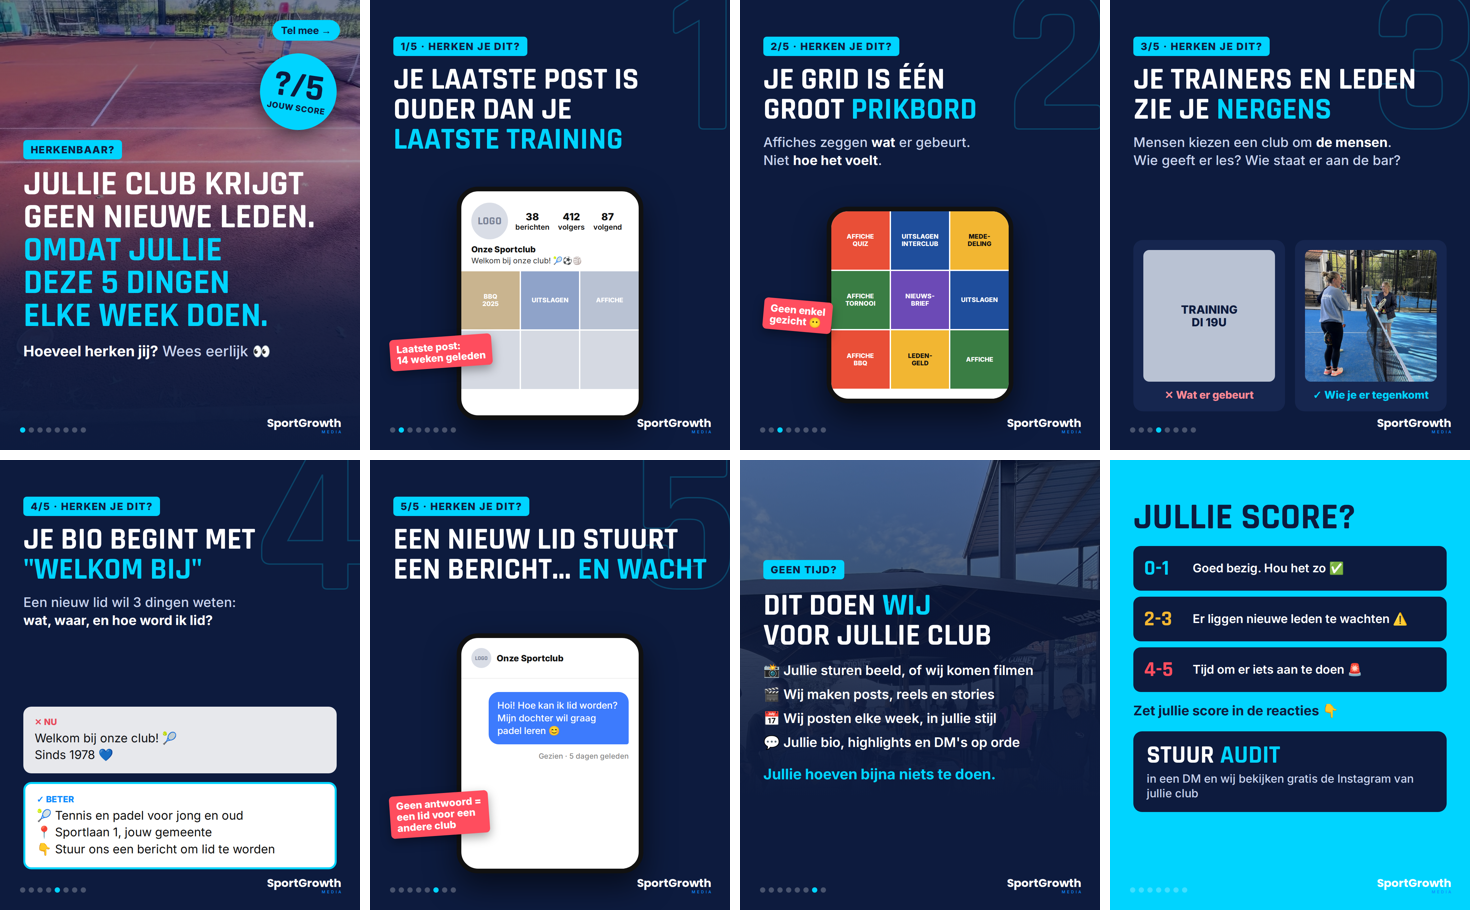
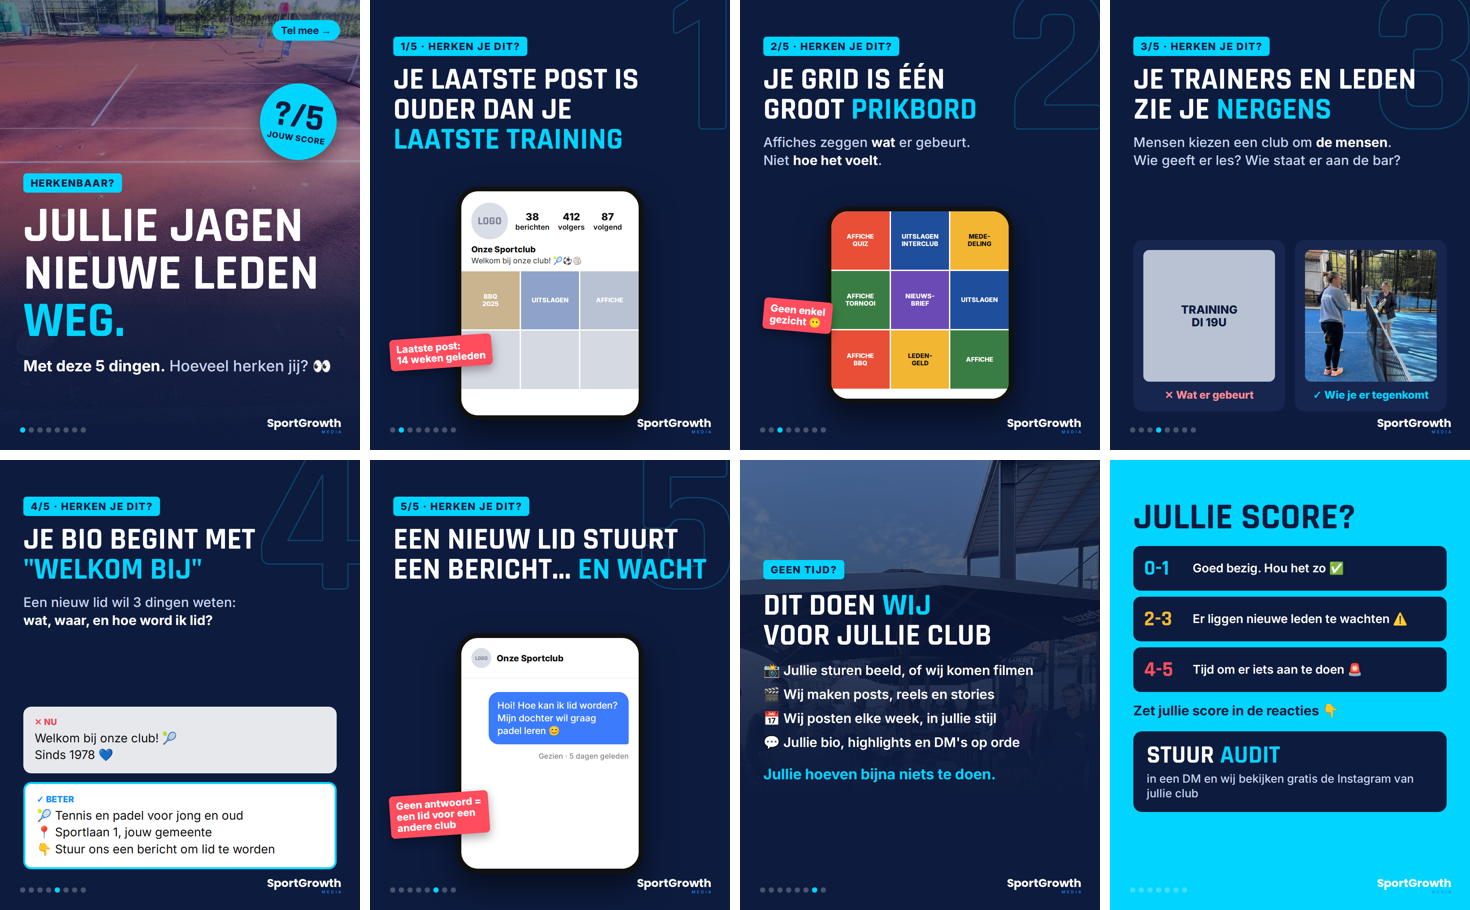
Carrousel 19/10: korte hook 'Jullie jagen nieuwe leden weg'
Claude-Session: https://claude.ai/code/session_01QkSWZzWLTduRQtPp2zathG

Changed region(s): [[0.0, 0.0615, 0.2449, 0.4308]]

diff --git a/instagram/carrousel-5-tekenen/build.js b/instagram/carrousel-5-tekenen/build.js
@@ -57,12 +57,12 @@ const slides = [];
 slides.push(page(1, `
 <div class="bg" style="background-image:url(file://${B}/tennis-leeg-gravel.jpg)"></div><div class="dim"></div>
 <div class="swipe">Tel mee →</div>
-<div style="position:absolute;left:70px;right:70px;top:420px;display:flex;flex-direction:column;gap:26px">
+<div style="position:absolute;left:70px;right:70px;top:520px;display:flex;flex-direction:column;gap:30px">
 <span class="tag" style="align-self:flex-start">HERKENBAAR?</span>
-<h1 style="font-size:104px">Jullie club krijgt<br>geen nieuwe leden.<br><span class="c">Omdat jullie<br>deze 5 dingen<br>elke week doen.</span></h1>
-<p class="t" style="font-size:44px"><b>Hoeveel herken jij?</b> Wees eerlijk 👀</p>
+<h1 style="font-size:150px">Jullie jagen<br>nieuwe leden<br><span class="c">weg.</span></h1>
+<p class="t" style="font-size:46px"><b>Met deze 5 dingen.</b> Hoeveel herken jij? 👀</p>
 </div>
-<div style="position:absolute;right:70px;top:160px;width:230px;height:230px;border-radius:50%;background:#00d4ff;color:#0d1b3e;display:flex;flex-direction:column;align-items:center;justify-content:center;transform:rotate(8deg);box-shadow:0 20px 50px rgba(0,0,0,.4)"><span style="font:700 110px/0.9 Rj">?/5</span><span style="font:800 24px In;letter-spacing:.05em">JOUW SCORE</span></div>
+<div style="position:absolute;right:70px;top:250px;width:230px;height:230px;border-radius:50%;background:#00d4ff;color:#0d1b3e;display:flex;flex-direction:column;align-items:center;justify-content:center;transform:rotate(8deg);box-shadow:0 20px 50px rgba(0,0,0,.4)"><span style="font:700 110px/0.9 Rj">?/5</span><span style="font:800 24px In;letter-spacing:.05em">JOUW SCORE</span></div>
 `));
 
 // 2 TEKEN 1: laatste post

diff --git a/instagram/CONTENTSYSTEEM.md b/instagram/CONTENTSYSTEEM.md
@@ -78,9 +78,9 @@ Raakt de eerste regel niet, dan doet de rest er niet toe. Laat de club meteen ie
 |---|---|---|
 | ❌ Slecht | "5 tips voor de Instagram van je club" | Een onderwerp, geen gevoel |
 | 🟡 Beter | "Waarom jullie posten en toch geen nieuwe leden krijgen" | Benoemt de pijn |
-| ✅ Best | "Jullie club krijgt geen nieuwe leden. Omdat jullie deze 5 dingen elke week doen." | Spreekt de club rechtstreeks aan, legt de schuld bij iets wat ze zelf doen, en belooft het antwoord |
+| ✅ Best | "Jullie jagen nieuwe leden weg. Met deze 5 dingen." | Spreekt de club rechtstreeks aan, legt de schuld bij iets wat ze zelf doen, en belooft het antwoord |
 
-Regels: spreek de club aan met "jullie", noem een gevolg dat pijn doet (leden, groei, een nieuw lid dat elders kiest), wijs naar iets wat ze zelf doen, en verklap het antwoord niet op de cover. Elke hook gaat langs deze ladder vóór hij gebruikt wordt.
+Regels: kort (max. 6 woorden op de cover, de rest in een kleine tweede regel), spreek de club aan met "jullie", noem een gevolg dat pijn doet (leden, groei, een nieuw lid dat elders kiest), wijs naar iets wat ze zelf doen, en verklap het antwoord niet op de cover. Elke hook gaat langs deze ladder vóór hij gebruikt wordt.
 
 ## 6. Stories (dagelijks, 2-5 minuten)
 | Dag | Story |
@@ -125,7 +125,7 @@ Week 12-18/10 blijft zoals gepland (carrousel clubbio, reel 3, reel 4 met nieuwe
 
 | Week | Ma · carrousel | Di · reel 1 | Do · reel 2 |
 |---|---|---|---|
-| **19/10** | HERKENBAAR? "Jullie club krijgt geen nieuwe leden. Omdat jullie deze 5 dingen elke week doen." (`carrousel-5-tekenen/`) | CLUBTIP: "Jullie bio jaagt nieuwe leden weg. Door één zin." (reel 5) | RESULTAAT: "Jullie posten affiches. Deze club postte iets anders, en bereikte 3.367 mensen." (reel 6, Jan Stilten) |
+| **19/10** | HERKENBAAR? "Jullie jagen nieuwe leden weg. Met deze 5 dingen." (`carrousel-5-tekenen/`) | CLUBTIP: "Jullie bio jaagt nieuwe leden weg. Door één zin." (reel 5) | RESULTAAT: "Jullie posten affiches. Deze club postte iets anders, en bereikte 3.367 mensen." (reel 6, Jan Stilten) |
 | **26/10** | ZO WERKT SGM: "Zo werkt het, in 4 stappen" | CLUBCHECK #1 (TTV of Westerlo met akkoord, anders anoniem) | HERKENBAAR?: "Wie heeft het wachtwoord van onze Instagram?" |
 | **2/11** | CLUBCHECK #1: de nieuwe versie (bio, grid, highlights) | HERKENBAAR?: "Dit is geen post, dit is een affiche" (reel 7 herwerkt) | ZO WERKT SGM: "Zo ziet een opnamemoment eruit" (achter de schermen op je training) |
 | **9/11** | ZO WERKT SGM: "Wat kost een Instagram die leden oplevert?" | CLUBCHECK #2 | RESULTAAT #2 (cijfers van Jan Stilten na 3 maanden, of eerste nieuwe klant) |

diff --git a/instagram/DRAAIBOEK-12-18-OKTOBER.md b/instagram/DRAAIBOEK-12-18-OKTOBER.md
@@ -78,7 +78,7 @@ Link voor stickers: `https://sportgrowthmedia.be/?utm_source=instagram&utm_mediu
 
 ## Volgende week (19 tot 25 oktober)
 - Ma 19/10 19u30: carrousel (Claude maakt de slides op wo 14/10)
-- Ma 19/10 19u30: carrousel "Jullie club krijgt geen nieuwe leden" (`carrousel-5-tekenen/`)
+- Ma 19/10 19u30: carrousel "Jullie jagen nieuwe leden weg" (`carrousel-5-tekenen/`)
 - Di 20/10 19u30: reel 5 "Jullie bio jaagt nieuwe leden weg" (gemonteerd wo 14/10), caption `reels/05-caption.txt`
 - Do 22/10 19u30: reel 6 RESULTAAT Jan Stilten (3 zinnen filmen di 13/10), caption `reels/06-jan-resultaat-caption.txt`
 - Voorraad: reel 7 "Een affiche is geen post"

diff --git a/instagram/plan.md b/instagram/plan.md
@@ -78,7 +78,7 @@ Rode draad: de clubbio. Draaiboek: `DRAAIBOEK-12-18-OKTOBER.md`. Opnames: `SHOTL
 | za 17/10 | - | - | - | - | Training of interclub |
 | zo 18/10 | - | - | - | - | - |
 
-Volgende week: ma 19/10 carrousel "Jullie club krijgt geen nieuwe leden", di 20/10 reel 5 "Jullie bio jaagt nieuwe leden weg", do 22/10 reel 6 RESULTAAT Jan Stilten. Trainers-reel naar de voorraad (reel 8).
+Volgende week: ma 19/10 carrousel "Jullie jagen nieuwe leden weg", di 20/10 reel 5 "Jullie bio jaagt nieuwe leden weg", do 22/10 reel 6 RESULTAAT Jan Stilten. Trainers-reel naar de voorraad (reel 8).
 
 ## Elke dag: 15 minuten reageren (vóór je post)
 
